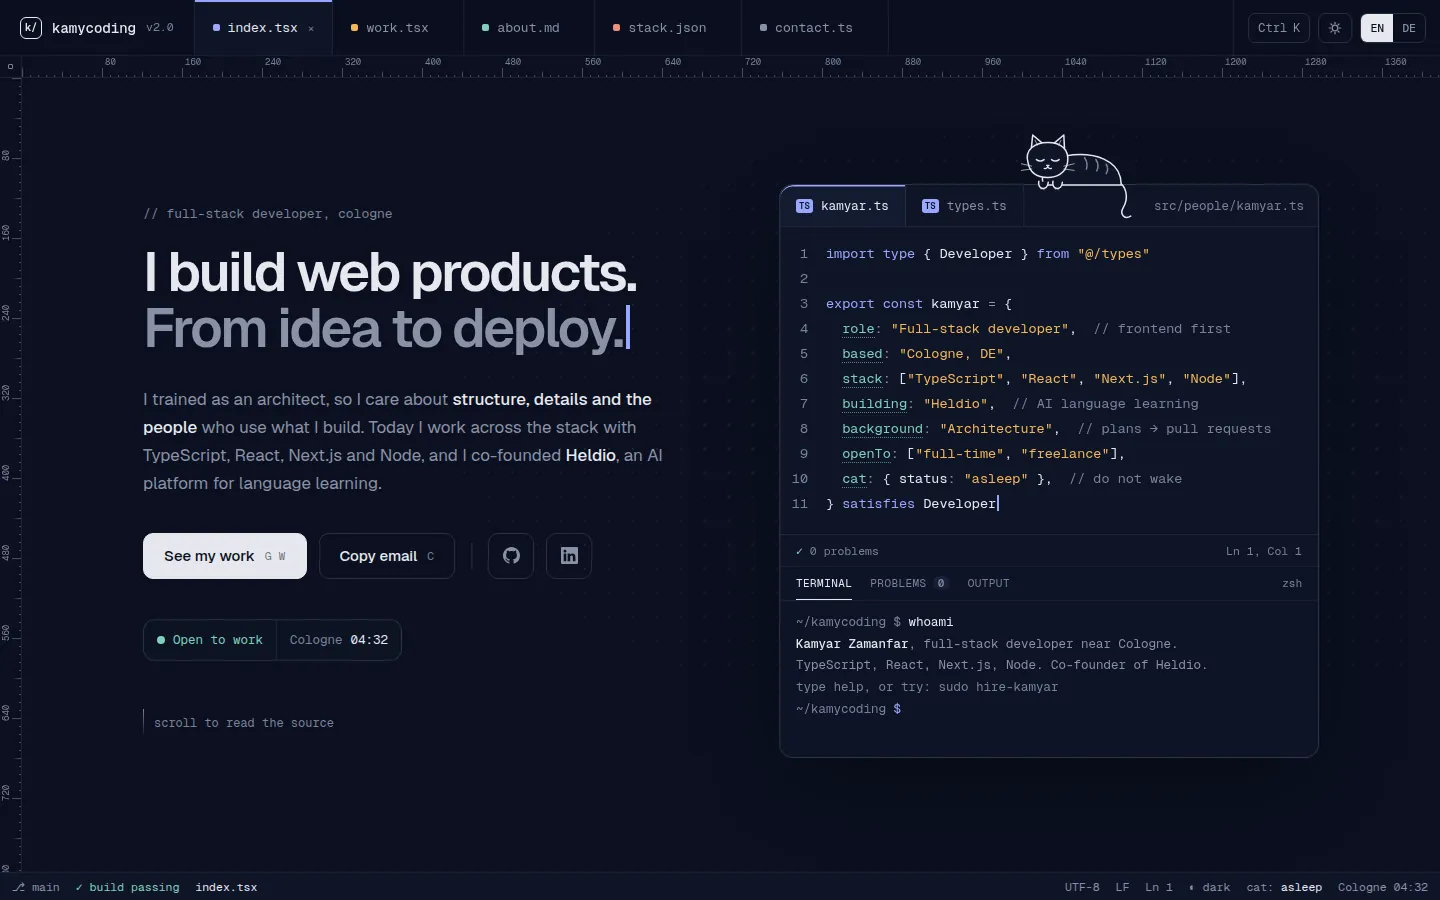
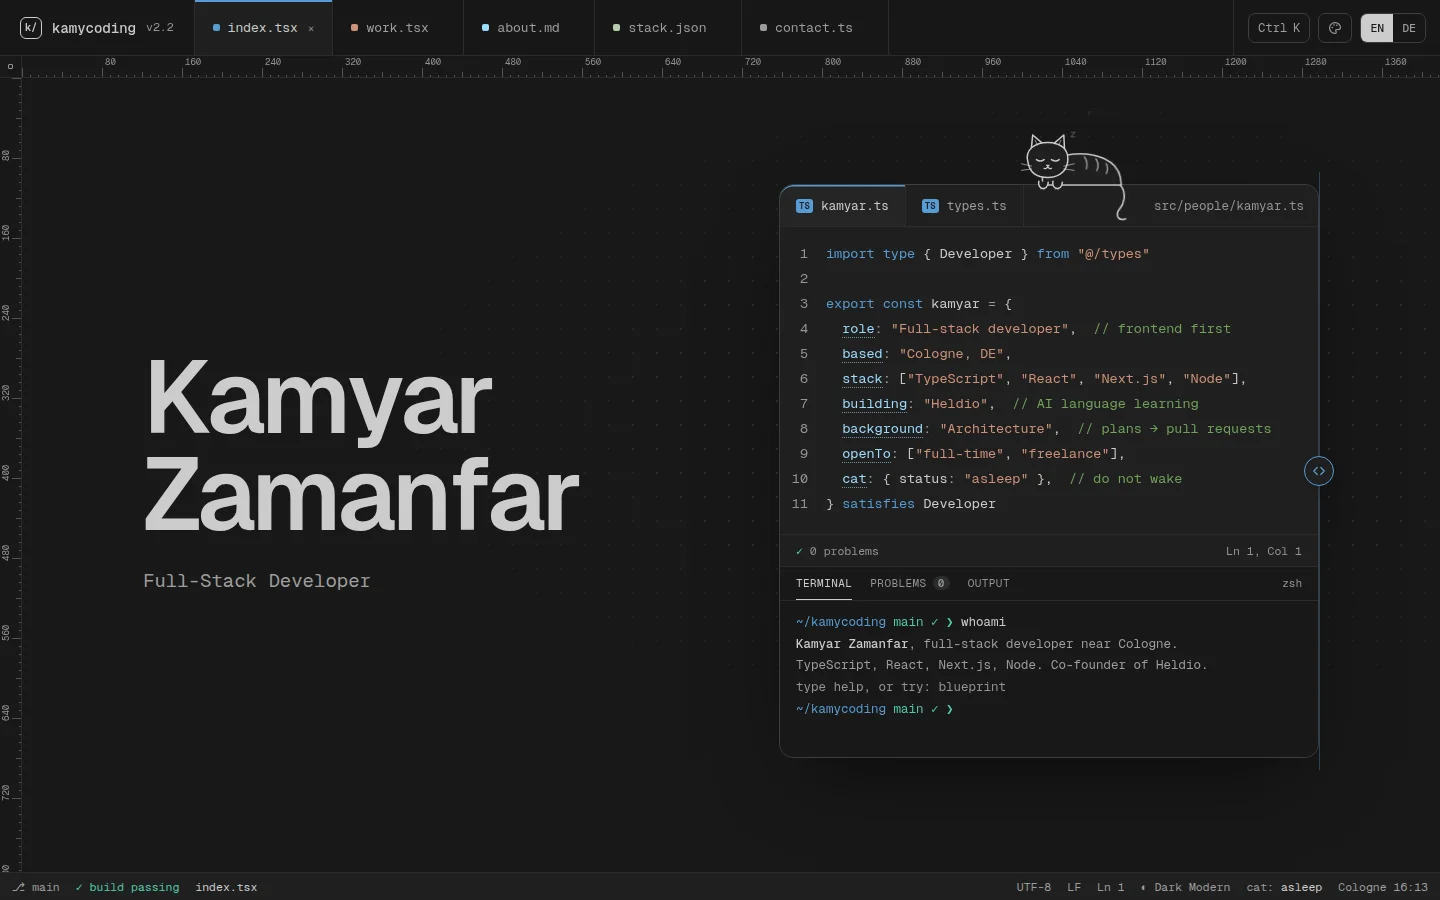
docs(readme): update the README and screenshots for v2.2.0

diff --git a/README.md b/README.md
@@ -1,10 +1,10 @@
 <div align="center">
 
-<img src="docs/media/og-image.webp" alt="kamycoding: I build web products. From idea to deploy. Kamyar Zamanfar, kamycoding.com" width="720">
+<img src="docs/media/og-image.webp" alt="kamycoding: Kamyar Zamanfar, Full-Stack Developer, kamycoding.com" width="720">
 
 # kamycoding.com
 
-I build web products. From idea to deploy.
+Kamyar Zamanfar, Full-Stack Developer.
 
 [Website](https://kamycoding.com) · [v1.0.0 release](https://github.com/kamycoding/portfolio/releases/tag/v1.0.0) · [LinkedIn](https://www.linkedin.com/in/kamyarzamanfar)
 
@@ -18,34 +18,42 @@ I build web products. From idea to deploy.
 Personal portfolio of Kamyar Zamanfar, full-stack developer near Cologne.
 
 <p align="center">
-  <img src="docs/media/hero-dark.webp" alt="Hero section in the dark theme: typed headline, editor panel with kamyar.ts, terminal and the cat" width="49%">
-  <img src="docs/media/hero-light.webp" alt="The same hero section in the light theme" width="49%">
+  <img src="docs/media/hero-dark.webp" alt="Hero in Dark Modern: name and role, editor panel with kamyar.ts, terminal and the cat" width="49%">
+  <img src="docs/media/hero-light.webp" alt="The same hero in Light Modern" width="49%">
+</p>
+
+<p align="center">
+  <img src="docs/media/hero-blueprint.webp" alt="The hero editor with the slider halfway: the build on the left, the measured blueprint on the right" width="49%">
 </p>
 
 ## Concept
 
-The whole site is designed as a code editor. Each section is a file (`index.tsx`, `work.tsx`, `about.md`, `stack.json`, `contact.ts`) with file tabs, rulers, breadcrumbs and a status bar. The page builds itself with a `pnpm build` log on load, and the contact form is written as a function call. It ships in English and German, in a dark and a light theme, as static pages.
+The whole site is designed as a code editor. Each section is a file (`index.tsx`, `work.tsx`, `about.md`, `stack.json`, `contact.ts`) with file tabs, rulers, breadcrumbs and a status bar. The page builds itself with a `pnpm build` log on load, and the contact form is written as a function call. It ships in English and German, in four VS Code color themes, as static pages.
 
 ## Features
 
-- Hero with a typed headline, an editor panel with TypeScript-style hover cards and a terminal with 13 commands
+- Hero with the name and role, an editor panel with TypeScript-style hover cards and a slider between a live-measured blueprint and the build, played as the entrance after the intro
+- Terminal with 11 commands, a modern prompt and ghost suggestions, including `ls projects`, `git log`, `blueprint` and `theme`
+- Color themes from VS Code: Dark Modern, Light Modern, Monokai and Solarized Dark, chosen in a Color Theme picker (`T`, the top bar or the status bar) with live preview; the default follows the system
 - Project list as `ls -la` with a pointer preview and a README drawer per project; line-drawing covers as SVG components
-- About as Markdown with an ASCII portrait, experience as a `git log` and reviews as pull request approvals
-- Stack as a foldable JSON tree, a GitHub contribution heatmap refreshed daily and services as functions
+- About as Markdown with an ASCII portrait, experience as a `git log` and reviews as GitHub-style pull request reviews with line-drawn avatars and an approval summary
+- Stack as a VS Code style explorer (folders per group, technologies as files), a GitHub contributions grid for the last 52 weeks refreshed daily, and services as functions
 - Contact form as `sendMessage({ ... })` with TypeScript-style errors, validated by the same schema in the browser and in the Netlify function
+- Footer with a large "kamycoding" line drawing that draws itself once, with the cat lying on its "m"
 - Command palette (`Ctrl K` / `⌘ K`), keyboard shortcuts, a custom cursor, and a cat that wakes up
+- Version in the top bar and the intro, read from `package.json`
 - Legal notice and privacy policy in both languages
 
 ## Tech stack
 
-| Area | Tools |
-| --- | --- |
-| Framework | Next.js 16 (App Router, static generation), React 19, TypeScript |
-| Styling | Tailwind CSS v4 with design tokens, CSS Modules, Geist fonts |
-| Content | next-intl (English at `/`, German at `/de`), next-themes |
-| Validation and tests | zod (shared schema), Vitest |
-| Hosting | Netlify CDN, Netlify Functions, Brevo for email delivery |
-| Tooling | pnpm, ESLint, Prettier, husky, lint-staged, commitlint, GitHub Actions |
+| Area                 | Tools                                                                  |
+| -------------------- | ---------------------------------------------------------------------- |
+| Framework            | Next.js 16 (App Router, static generation), React 19, TypeScript       |
+| Styling              | Tailwind CSS v4 with design tokens, CSS Modules, Geist fonts           |
+| Content              | next-intl (English at `/`, German at `/de`), next-themes               |
+| Validation and tests | zod (shared schema), Vitest                                            |
+| Hosting              | Netlify CDN, Netlify Functions, Brevo for email delivery               |
+| Tooling              | pnpm, ESLint, Prettier, husky, lint-staged, commitlint, GitHub Actions |
 
 ## Architecture
 
@@ -60,15 +68,15 @@ flowchart LR
 
 The site has no separate backend ([ADR 0002](docs/adr/0002-no-separate-backend.md)). The only server code is the contact function: it accepts JSON from the own origin only, checks the size, validates with the shared schema, uses a honeypot and Netlify's rate limit, and logs one line per request without personal data.
 
-| Folder | Contents |
-| --- | --- |
-| `src/app/` | Routes and layouts per locale, design tokens, metadata, sitemap, Open Graph images |
-| `src/components/` | Sections (`hero`, `work`, `about`, `stack`, `contact`, `legal`) and the editor shell |
-| `src/content/` | Projects, experience, reviews, stack and services in English and German |
-| `src/hooks/`, `src/lib/` | Small shared stores and helpers, the contact schema |
-| `src/i18n/`, `src/proxy.ts` | Locale routing and detection ([ADR 0004](docs/adr/0004-locale-routing.md)) |
-| `messages/` | UI copy in English and German |
-| `netlify/` | The contact function and its tests |
+| Folder                      | Contents                                                                             |
+| --------------------------- | ------------------------------------------------------------------------------------ |
+| `src/app/`                  | Routes and layouts per locale, design tokens, metadata, sitemap, Open Graph images   |
+| `src/components/`           | Sections (`hero`, `work`, `about`, `stack`, `contact`, `legal`) and the editor shell |
+| `src/content/`              | Projects, experience, reviews, stack and services in English and German              |
+| `src/hooks/`, `src/lib/`    | Small shared stores and helpers, the contact schema                                  |
+| `src/i18n/`, `src/proxy.ts` | Locale routing and detection ([ADR 0004](docs/adr/0004-locale-routing.md))           |
+| `messages/`                 | UI copy in English and German                                                        |
+| `netlify/`                  | The contact function and its tests                                                   |
 
 ## Getting started
 
@@ -81,16 +89,16 @@ pnpm install           # also installs the git hooks
 pnpm dev               # http://localhost:3000
 ```
 
-| Script | What it does |
-| --- | --- |
-| `pnpm dev` | Development server with hot reload |
-| `pnpm build` | Production build, after refreshing the GitHub contributions |
-| `pnpm contributions:update` | Refresh `src/content/contributions.json` (needs `GITHUB_CONTRIBUTIONS_TOKEN`) |
-| `pnpm start` | Serve the production build (security headers are active here) |
-| `pnpm lint` / `pnpm lint:fix` | ESLint, with automatic fixes |
-| `pnpm format` | Prettier on `src/` |
-| `pnpm check-types` | TypeScript check without emitting files |
-| `pnpm test` | Vitest, single run (app and contact function) |
+| Script                        | What it does                                                                  |
+| ----------------------------- | ----------------------------------------------------------------------------- |
+| `pnpm dev`                    | Development server with hot reload                                            |
+| `pnpm build`                  | Production build, after refreshing the GitHub contributions                   |
+| `pnpm contributions:update`   | Refresh `src/content/contributions.json` (needs `GITHUB_CONTRIBUTIONS_TOKEN`) |
+| `pnpm start`                  | Serve the production build (security headers are active here)                 |
+| `pnpm lint` / `pnpm lint:fix` | ESLint, with automatic fixes                                                  |
+| `pnpm format`                 | Prettier on `src/`                                                            |
+| `pnpm check-types`            | TypeScript check without emitting files                                       |
+| `pnpm test`                   | Vitest, single run (app and contact function)                                 |
 
 The contact function needs the variables in [`.env.example`](.env.example), set per deploy context in Netlify. There is no local Netlify setup: the function is covered by tests, and the form is tested end to end on Deploy Previews.
 
@@ -103,7 +111,7 @@ Commits follow [Conventional Commits](https://www.conventionalcommits.org/). Git
 - CI on every push and pull request: frozen install, lint, type check, tests and build, with actions pinned to full commit SHAs
 - CodeQL code scanning, Dependabot, secret scanning with push protection
 - Enforced Content Security Policy and security headers ([ADR 0005](docs/adr/0005-csp-strategy.md))
-- Accessibility: keyboard access everywhere, visible focus, reduced motion respected, contrast tuned to WCAG AA
+- Accessibility: keyboard access everywhere, visible focus, reduced motion respected, text contrast at WCAG AA in every color theme
 - [`security.txt`](public/.well-known/security.txt) and a [security policy](SECURITY.md) for private reports
 
 ## Architecture decisions
@@ -120,7 +128,7 @@ The design spec and the approved prototype are in [`docs/design/`](docs/design/)
 ## Versions
 
 - v1 (Angular) is preserved at [`v1.0.0`](https://github.com/kamycoding/portfolio/releases/tag/v1.0.0).
-- v2 is built on the `redesign/v2` branch and goes live with v2.0.0. Changes are listed in the [changelog](CHANGELOG.md).
+- v2 went live with [`v2.0.0`](https://github.com/kamycoding/portfolio/releases/tag/v2.0.0). The current release is [`v2.2.0`](docs/release-notes/v2.2.0.md). Changes are listed in the [changelog](CHANGELOG.md).
 
 ## License
 
